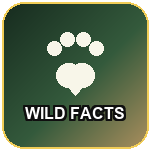
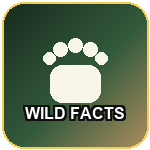
fix(branding): 곰 발바닥 자연스럽게 — 둥근 사각 패드 + 발가락 5개 호 배치

Changed region(s): [[0.32, 0.4, 0.6933, 0.6933], [0.2667, 0.2133, 0.72, 0.4533]]

diff --git a/channel_assets/generate_assets.py b/channel_assets/generate_assets.py
@@ -93,46 +93,38 @@ def add_film_grain(img, opacity=18):
 
 
 def draw_pawprint(draw, cx, cy, scale=1.0, color=None, alpha=255):
-    """발자국 — 자연스러운 동물 발 (큰 둥근 하트형 패드 + 4개 발가락 fan 배치)."""
+    """곰 발바닥 — 큰 둥근 사각 패드 + 발가락 5개 호 형태로 배치."""
     if color is None:
         color = PALETTE["text_white"]
     fill = (*color[:3], alpha) if len(color) == 3 else color
 
-    # 메인 패드 — 하트형 (양옆 둥글게 + 아래 뾰족)
-    pad_w = int(140 * scale)
-    pad_h = int(120 * scale)
-    pad_top = cy - int(pad_h * 0.15)
-    pad_bottom = cy + int(pad_h * 0.85)
-    # 좌측 둥근 부분
-    draw.ellipse([cx - pad_w // 2, pad_top,
-                  cx - pad_w // 2 + int(pad_w * 0.65), pad_top + int(pad_h * 0.75)],
-                 fill=fill)
-    # 우측 둥근 부분
-    draw.ellipse([cx + pad_w // 2 - int(pad_w * 0.65), pad_top,
-                  cx + pad_w // 2, pad_top + int(pad_h * 0.75)],
-                 fill=fill)
-    # 가운데 + 하단 (마름모/하트 끝)
-    draw.polygon([
-        (cx - int(pad_w * 0.42), pad_top + int(pad_h * 0.45)),
-        (cx + int(pad_w * 0.42), pad_top + int(pad_h * 0.45)),
-        (cx, pad_bottom),
-    ], fill=fill)
-    # 가운데 메우기 (둥근 사각)
-    draw.ellipse([cx - int(pad_w * 0.32), pad_top + int(pad_h * 0.20),
-                  cx + int(pad_w * 0.32), pad_top + int(pad_h * 0.70)],
-                 fill=fill)
+    # 곰 발바닥 메인 패드 — 둥근 사각형 (가로로 약간 넓고 모서리 둥근)
+    pad_w = int(180 * scale)
+    pad_h = int(135 * scale)
+    pad_top = cy - int(pad_h * 0.08)
+    pad_left = cx - pad_w // 2
+    pad_right = cx + pad_w // 2
+    pad_bottom = pad_top + pad_h
+    radius = int(45 * scale)
+    draw.rounded_rectangle([pad_left, pad_top, pad_right, pad_bottom],
+                           radius=radius, fill=fill)
 
-    # 4개 발가락 — fan 곡선 배치, 패드 위에 가까이
-    toe_r_outer = int(26 * scale)
-    toe_r_inner = int(28 * scale)
-    # 위치: 부채꼴 (가운데 두 개가 더 위로, 양 끝은 약간 아래로)
+    # 발가락 5개 — 패드 위에 자연스러운 호 형태 (가운데 가장 위, 양쪽 살짝 내려옴)
+    # 곰은 발가락 5개. 가장 좌측이 작고 (엄지 역할) 나머지는 비슷
+    toe_r_small = int(22 * scale)
+    toe_r = int(26 * scale)
+    toe_y_base = cy - int(50 * scale)
     toes = [
-        (cx + int(-78 * scale), cy + int(-70 * scale), toe_r_outer),
-        (cx + int(-30 * scale), cy + int(-100 * scale), toe_r_inner),
-        (cx + int(30 * scale), cy + int(-100 * scale), toe_r_inner),
-        (cx + int(78 * scale), cy + int(-70 * scale), toe_r_outer),
+        # (x_offset, y_offset_from_toe_y_base, radius)
+        (int(-95 * scale), int(20 * scale), toe_r_small),     # 가장 좌측 (작게, 살짝 아래)
+        (int(-55 * scale), int(-15 * scale), toe_r),          # 좌
+        (int(0 * scale),   int(-32 * scale), toe_r),          # 가운데 (가장 위)
+        (int(55 * scale),  int(-15 * scale), toe_r),          # 우
+        (int(95 * scale),  int(20 * scale), toe_r_small),     # 가장 우측 (작게, 살짝 아래)
     ]
-    for tx, ty, tr in toes:
+    for dx, dy, tr in toes:
+        tx = cx + dx
+        ty = toe_y_base + dy
         draw.ellipse([tx - tr, ty - tr, tx + tr, ty + tr], fill=fill)
 
 
